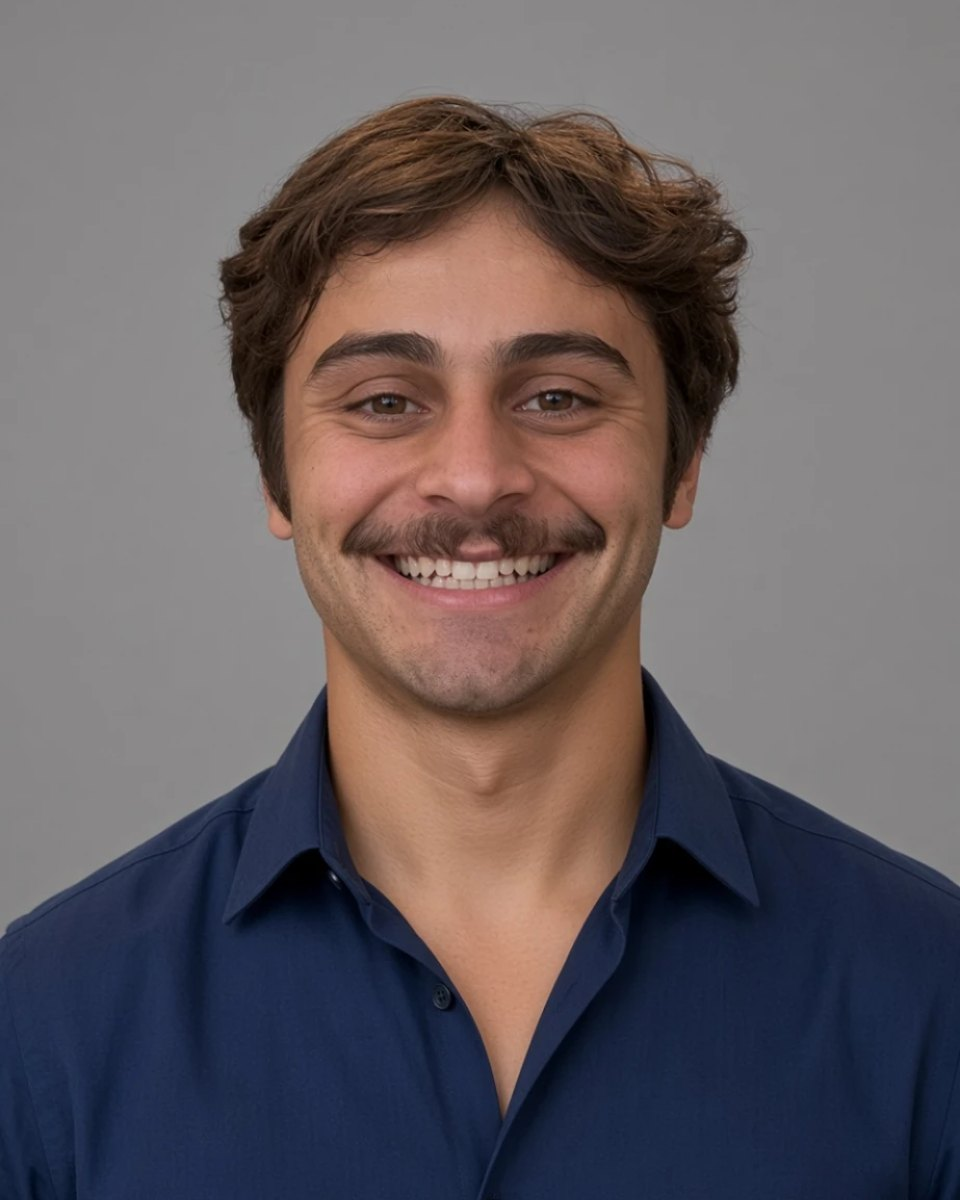
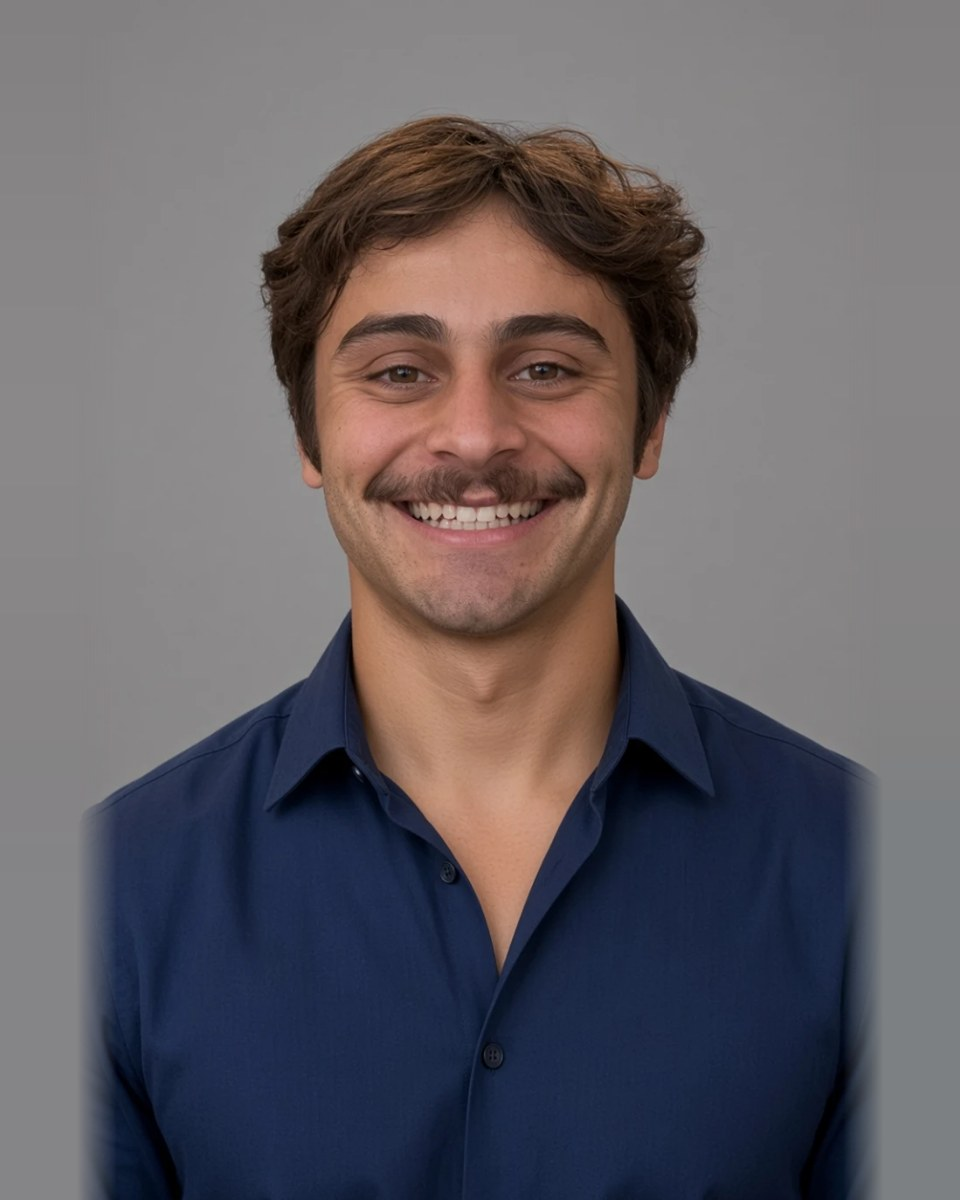
About: headshot zoomed out
Claude-Session: https://claude.ai/code/session_01T6XHh8aTtAd9DL7tMeqGWz

diff --git a/about.html b/about.html
@@ -50,7 +50,7 @@
     </div>
   </div>
   <div class="me-photo-wrap" data-rise style="--i:2">
-    <figure class="me-photo"><img src="img/about/michael.jpg" width="960" height="1200" alt="Michael, smiling, in a navy button-down shirt" decoding="async"></figure>
+    <figure class="me-photo"><img src="img/about/michael.jpg?v=2" width="960" height="1200" alt="Michael, smiling, in a navy button-down shirt" decoding="async"></figure>
     <svg class="me-badge" viewBox="0 0 120 120" aria-hidden="true">
       <defs><path id="badge-ring" d="M60,60 m-45,0 a45,45 0 1,1 90,0 a45,45 0 1,1 -90,0"/></defs>
       <circle cx="60" cy="60" r="59"/>
